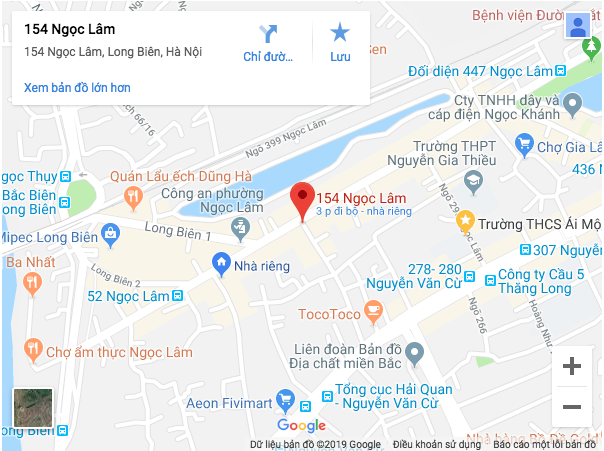
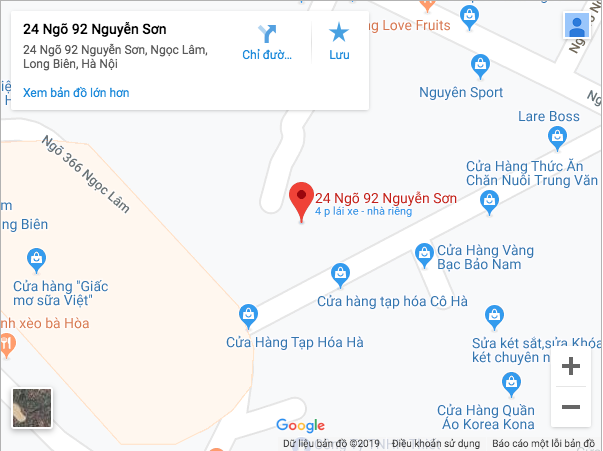
update

diff --git a/Sen-Hong-Thuoc-Tay/index.html b/Sen-Hong-Thuoc-Tay/index.html
@@ -99,9 +99,8 @@
         <div class="container-fluid">
             <h2 id="contact" class="text-center">Liên hệ</h2>
             <div class="info">
-                <p class="text-center">Địa chỉ: Số 1A, ngách 145/19/19 Nguyễn Văn Cừ, Q. Long Biên, Hà Nội.</p>
-                <p class="text-center">ĐT: 0901793701</p>
-                <p class="text-center">Email: ltdat2001alt@gmail.com</p>
+                <p class="text-center">Địa chỉ: Số nhà 24 ngõ 92 Nguyễn Sơn,Long Biên,Hà Nội</p>
+                <p class="text-center">ĐT: 0976903231 (Nguyễn Sen)</p>
             </div>
             <div class="justify-content-center align-items-center d-flex" style="width:100vh;padding:0;margin:0 auto">
                 <img src="img/Map.png" alt="">
